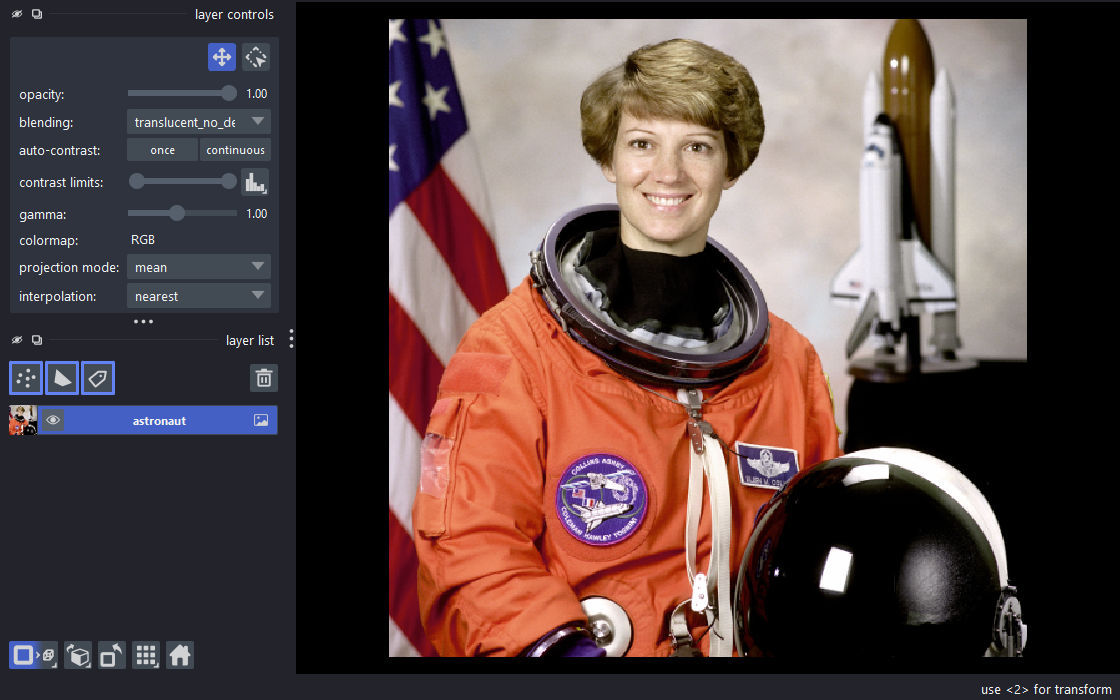
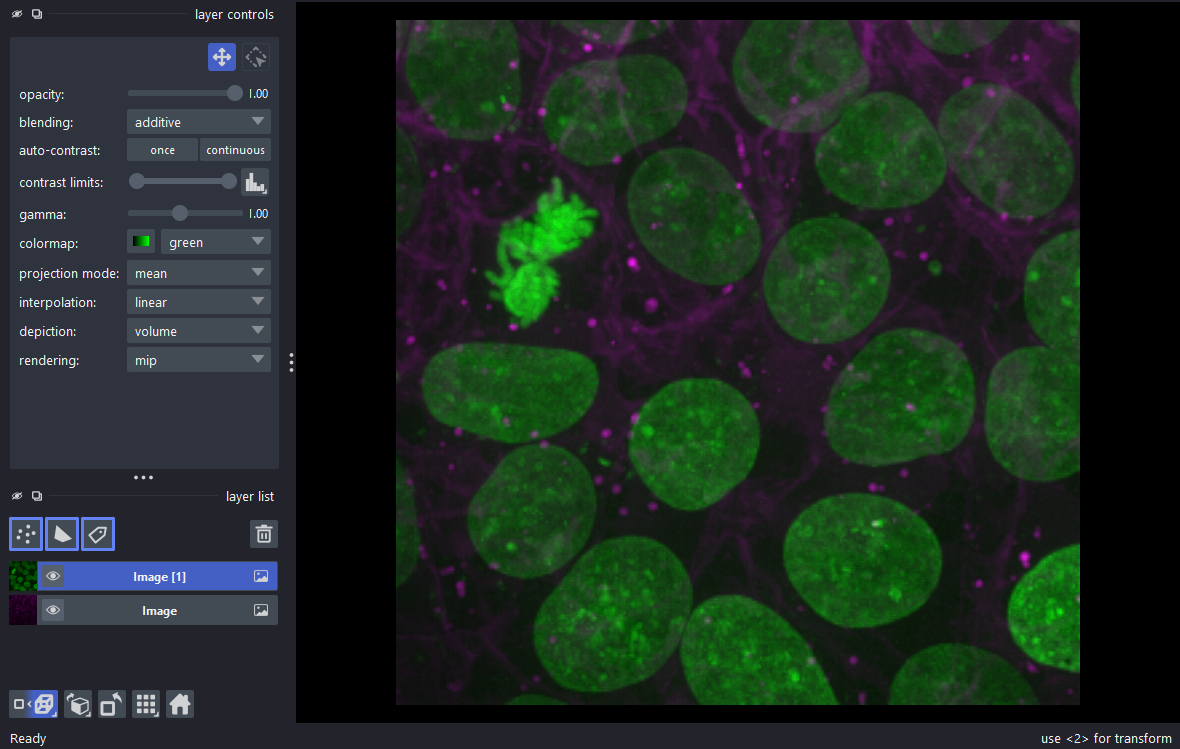
update readme :)

diff --git a/tools/readme_images.py b/tools/readme_images.py
@@ -1,14 +1,13 @@
 # napari-lite: own code
-"""Make the README images: viewer screenshots and the benchmark chart.
+"""Take the README's screenshot: napari's own README example, run with
+napari-lite.
 
-    python tools/readme_images.py              # all three
-    python tools/readme_images.py chart        # the chart only (no window)
-    python tools/readme_images.py viewer 3d    # the screenshots only
+    python tools/readme_images.py
 
-The screenshots run the README's own example (the astronaut sample) and
-the stent volume in 3D, window on screen, and save the whole window.  The
-chart draws the numbers of docs/benchmarks.md with Pillow, so it needs
-nothing beyond napari-lite's dependencies.  Output: docs/images/.
+The example shows scikit-image's cells3d sample as two channels in 3D, so
+scikit-image and pooch must be importable (they are not napari-lite
+dependencies; napari's own README uses the same sample).  The window is
+shown on screen and saved whole as docs/images/readme_viewer.png.
 """
 
 from __future__ import annotations
@@ -18,24 +17,6 @@ import time
 from pathlib import Path
 
 OUT = Path(__file__).resolve().parent.parent / 'docs' / 'images'
-
-# docs/benchmarks.md, measured 2026-10-17: napari-lite and napari at the
-# same napari commit, fresh environments, one Windows machine; the ratios
-# are the point, not the seconds.  (label, napari-lite, napari, unit, kind)
-NUMBERS = [
-    ('import the package', 0.01, 0.22, 's', 'time'),
-    ('first image (ViewerModel + add_image)', 1.5, 3.3, 's', 'time'),
-    ('viewer window shown with an image', 3.7, 6.0, 's', 'time'),
-    ('memory with a window shown', 222, 276, 'MB', 'size'),
-    ('installed size', 370, 761, 'MB', 'size'),
-    ('packages installed', 31, 106, '', 'count'),
-    ('direct dependencies', 14, 37, '', 'count'),
-]
-
-LITE = (38, 166, 154)  # teal
-NAPARI = (190, 196, 204)  # grey
-INK = (33, 37, 41)
-MUTED = (110, 117, 125)
 
 
 def pump(seconds: float) -> None:
@@ -48,166 +29,32 @@ def pump(seconds: float) -> None:
         time.sleep(0.02)
 
 
-def screenshot(
-    sample: str,
-    path: Path,
-    *,
-    ndisplay: int = 2,
-    size: tuple[int, int] = (1120, 700),
-    angles: tuple[float, float, float] | None = None,
-    **layer_kwargs,
-) -> None:
-    """The window with one built-in sample, saved as ``path``."""
+def main() -> int:
+    try:
+        from skimage import data
+    except ImportError:
+        print(
+            'scikit-image with pooch is needed for the cells3d sample',
+            file=sys.stderr,
+        )
+        return 1
     import napari_lite as napari
 
-    viewer = napari.Viewer(title='napari-lite')
-    viewer.window.resize(*size)
-    (layer,) = viewer.open_sample('napari-lite', sample)
-    for name, value in layer_kwargs.items():
-        setattr(layer, name, value)
-    if ndisplay == 3:
-        viewer.dims.ndisplay = 3
-        if angles is not None:
-            viewer.scene.camera.angles = angles
-    pump(2.5)
+    OUT.mkdir(parents=True, exist_ok=True)
+    viewer, _layers = napari.imshow(
+        data.cells3d(), channel_axis=1, ndisplay=3, title='napari-lite'
+    )
+    viewer.window.resize(1180, 780)
+    pump(1.0)
+    viewer.reset_view()  # fit the volume to the resized canvas
+    pump(2.0)
+    path = OUT / 'readme_viewer.png'
     viewer.screenshot(str(path), canvas_only=False)
     pump(0.5)
     viewer.close()
     print('wrote', path)
-
-
-def _font(size: int, bold: bool = False):
-    from PIL import ImageFont
-
-    names = (
-        ['segoeuib.ttf', 'arialbd.ttf', 'DejaVuSans-Bold.ttf']
-        if bold
-        else ['segoeui.ttf', 'arial.ttf', 'DejaVuSans.ttf']
-    )
-    for name in names:
-        try:
-            return ImageFont.truetype(name, size)
-        except OSError:
-            continue
-    return ImageFont.load_default()
-
-
-def _ratio_text(lite: float, napari: float, kind: str) -> str:
-    if kind == 'time':
-        ratio = napari / lite
-        return (
-            f'{ratio:.0f}x faster' if ratio >= 10 else f'{ratio:.1f}x faster'
-        )
-    less = round((1 - lite / napari) * 100)
-    return f'{less}% {"fewer" if kind == "count" else "less"}'
-
-
-def _value_text(value: float, unit: str) -> str:
-    if unit == 's':
-        text = f'{value:.2f}' if value < 1 else f'{value:.1f}'
-    else:
-        text = f'{value:g}'
-    return f'{text} {unit}'.strip()
-
-
-def chart(path: Path, scale: int = 2) -> None:
-    """Horizontal bars, napari as the full length, napari-lite beside it."""
-    from PIL import Image, ImageDraw
-
-    s = scale
-    width, height = 1000 * s, 580 * s
-    img = Image.new('RGB', (width, height), 'white')
-    draw = ImageDraw.Draw(img)
-    title, sub, label, small, big = (
-        _font(26 * s, bold=True),
-        _font(15 * s),
-        _font(16 * s),
-        _font(14 * s),
-        _font(17 * s, bold=True),
-    )
-
-    draw.text((40 * s, 28 * s), 'napari-lite vs napari', fill=INK, font=title)
-    draw.text(
-        (40 * s, 68 * s),
-        'Same napari commit, fresh environments, one Windows machine. '
-        'Lower is better; napari is the full bar.',
-        fill=MUTED,
-        font=sub,
-    )
-    # legend
-    lx, ly = width - 300 * s, 34 * s
-    for i, (name, colour) in enumerate(
-        (('napari-lite', LITE), ('napari', NAPARI))
-    ):
-        y = ly + i * 24 * s
-        draw.rounded_rectangle(
-            (lx, y, lx + 26 * s, y + 14 * s), radius=3 * s, fill=colour
-        )
-        draw.text((lx + 36 * s, y - 3 * s), name, fill=INK, font=label)
-
-    x0, x1 = 380 * s, width - 250 * s
-    bar_h, gap = 15 * s, 4 * s
-    top = 122 * s
-    row_h = 60 * s
-    for i, (name, lite, napari, unit, kind) in enumerate(NUMBERS):
-        y = top + i * row_h
-        draw.text((40 * s, y + 6 * s), name, fill=INK, font=label)
-        # napari: the full bar
-        draw.rounded_rectangle(
-            (x0, y, x1, y + bar_h), radius=4 * s, fill=NAPARI
-        )
-        draw.text(
-            (x1 + 10 * s, y - 2 * s),
-            _value_text(napari, unit),
-            fill=MUTED,
-            font=small,
-        )
-        # napari-lite: in proportion
-        xl = x0 + max((x1 - x0) * lite / napari, 3 * s)
-        yl = y + bar_h + gap
-        draw.rounded_rectangle(
-            (x0, yl, xl, yl + bar_h), radius=4 * s, fill=LITE
-        )
-        draw.text(
-            (xl + 10 * s, yl - 2 * s),
-            _value_text(lite, unit),
-            fill=LITE,
-            font=small,
-        )
-        draw.text(
-            (width - 150 * s, y + 7 * s),
-            _ratio_text(lite, napari, kind),
-            fill=LITE,
-            font=big,
-        )
-    draw.text(
-        (40 * s, height - 36 * s),
-        'Measured 2026-10-17; how, and the CI numbers on three operating '
-        'systems, in docs/benchmarks.md.',
-        fill=MUTED,
-        font=small,
-    )
-    img.save(path, optimize=True)
-    print('wrote', path)
-
-
-def main(argv: list[str]) -> None:
-    OUT.mkdir(parents=True, exist_ok=True)
-    wanted = set(argv) or {'viewer', '3d', 'chart'}
-    if 'viewer' in wanted:
-        screenshot('astronaut', OUT / 'readme_viewer.png')
-    if '3d' in wanted:
-        screenshot(
-            'stent',
-            OUT / 'readme_3d.png',
-            ndisplay=3,
-            angles=(-10, 30, 65),
-            colormap='magma',
-            rendering='attenuated_mip',
-        )
-    if 'chart' in wanted:
-        chart(OUT / 'readme_benchmark.png')
+    return 0
 
 
 if __name__ == '__main__':
-    main(sys.argv[1:])
+    sys.exit(main())

diff --git a/README.md b/README.md
@@ -12,7 +12,7 @@
 </p>
 
 <p align="center">
-  <img src="docs/images/readme_viewer.png" width="860" alt="The napari-lite window: napari's layer controls and layer list on the left, the astronaut sample on the canvas.">
+  <img src="docs/images/readme_viewer.png" width="860" alt="The napari-lite window with scikit-image's cells3d sample as two image layers, nuclei and membrane, in 3D: napari's layer controls and layer list on the left, the canvas on the right.">
 </p>
 
 [napari](https://napari.org)'s viewer core as its own package: the seven
@@ -38,53 +38,48 @@ and Windows; not on PyPI yet. Extras add what napari needs a package for:
 
 ## Example
 
-The window above comes from this script:
+napari's own README example, run with napari-lite. It uses a sample from
+scikit-image, which napari-lite does not depend on; any array works the
+same way:
 
 ```python
+from skimage import data
 import napari_lite as napari
 
-viewer = napari.Viewer()
-viewer.open_sample('napari-lite', 'astronaut')
-napari.run()
+viewer, layers = napari.imshow(data.cells3d(), channel_axis=1, ndisplay=3)
+napari.run()  # start the event loop and show the viewer
 ```
 
-Any numpy-like array works the way it does in napari, from a script,
-IPython or a notebook:
-
-```python
-import numpy as np
-import napari_lite as napari   # one-line swap from napari
-
-viewer, layer = napari.imshow(np.random.random((4, 256, 256)), colormap='magma')
-viewer.add_points(np.array([[2, 100, 100], [2, 150, 50]]), size=10)
-napari.run()
-```
-
-Files open with `viewer.open('photo.png')`, by dropping them on the
-canvas, with `Ctrl+O`, or from the terminal: `napari-lite image.png
-stack.npy`, `napari-lite --sample stent --ndisplay 3`.
-
-<p align="center">
-  <img src="docs/images/readme_3d.png" width="860" alt="The stent sample, a CT volume, rendered in 3D with the magma colormap.">
-</p>
+That script made the window above. Other ways in: `viewer.add_image(array)`
+and the other `add_*` methods, `viewer.open('photo.png')`, files dropped
+on the canvas or chosen with `Ctrl+O`, a built-in sample with
+`viewer.open_sample('napari-lite', 'astronaut')`, and the terminal:
+`napari-lite image.png stack.npy` or `napari-lite --sample stent --ndisplay 3`.
 
 ## Faster and smaller than napari
 
-<p align="center">
-  <img src="docs/images/readme_benchmark.png" width="860" alt="Bar chart of napari-lite against napari: import 0.01 s against 0.22 s, first image 1.5 s against 3.3 s, window with an image 3.7 s against 6.0 s, memory 222 MB against 276 MB, installed size 370 MB against 761 MB, 31 packages against 106, 14 direct dependencies against 37.">
-</p>
-
 Both packages installed with `pip install <package>[pyqt6]` into fresh
 environments, napari from the commit the copy was taken from, on one
-Windows machine, so read the ratios rather than the seconds. napari-lite
-is lighter because it imports only what it uses (no xarray probe on every
-new layer, no scipy for a thumbnail or a 2D draw, no plugin discovery, no
-app-model, no console) and because the heavy packages are gone or
-optional: the few functions napari used from scikit-image, scipy, toolz
-and wrapt are numpy code, tested against the originals, and pandas is an
-extra. What remains, Qt, vispy and the first OpenGL context, is the same
-in both, which is why the gap narrows from 22x at import to 1.6x with a
-window on screen. How it was measured, and the CI numbers on three
+Windows machine, so read the ratios rather than the seconds.
+
+| | napari-lite | napari | |
+|---|---|---|---|
+| `import` the package | 0.01 s | 0.22 s | 22x faster |
+| first image (`ViewerModel` + `add_image`) | 1.5 s | 3.3 s | 2.2x faster |
+| viewer window shown with an image | 3.7 s | 6.0 s | 1.6x faster |
+| memory with a window shown | 222 MB | 276 MB | 20% less |
+| installed size | 370 MB | 761 MB | 51% less |
+| packages installed | 31 | 106 | 71% fewer |
+| direct dependencies | 14 | 37 | 62% fewer |
+
+napari-lite is lighter because it imports only what it uses (no xarray
+probe on every new layer, no scipy for a thumbnail or a 2D draw, no plugin
+discovery, no app-model, no console) and because the heavy packages are
+gone or optional: the few functions napari used from scikit-image, scipy,
+toolz and wrapt are numpy code, tested against the originals, and pandas
+is an extra. What remains, Qt, vispy and the first OpenGL context, is the
+same in both, which is why the gap narrows from 22x at import to 1.6x
+with a window on screen. How it was measured, and the CI numbers on three
 operating systems: [docs/benchmarks.md](docs/benchmarks.md).
 
 ## Features

diff --git a/docs/benchmarks.md b/docs/benchmarks.md
@@ -132,9 +132,8 @@ window 5.0 s and 248 MB.
 The times are those of the run after scipy left; the later removals of
 toolz, pydantic-extra-types and pandas changed module counts and sizes
 only, and a rerun of the window on this machine moves by half a second
-either way. The chart in the README (`docs/images/readme_benchmark.png`)
-is drawn from these numbers by `tools/readme_images.py`, which also takes
-the README's screenshots.
+either way. The README repeats the first rows of this table;
+`tools/readme_images.py` takes the README's screenshot.
 
 Where the difference comes from:
 
